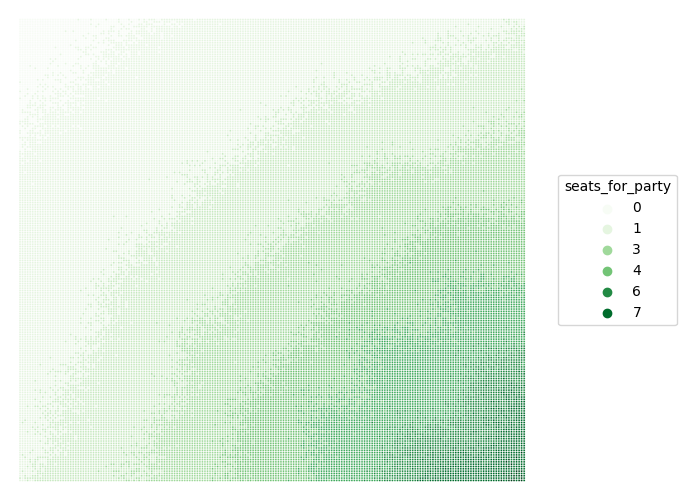
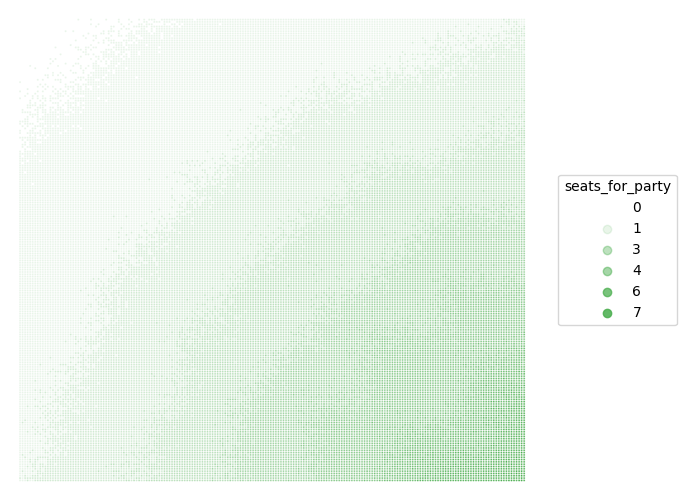
Allow specifying the discrete colormap in config

Changed region(s): [[0.21, 0.27, 0.75, 0.96], [0.84, 0.57, 0.87, 0.63], [0.84, 0.48, 0.87, 0.51]]

diff --git a/main.py b/main.py
@@ -2,11 +2,24 @@ import os
 from pathlib import Path
 import pandas as pd
 import matplotlib.pyplot as plt
+from matplotlib.colors import ListedColormap
 import seaborn as sns
 import dhall
 
 with open('config.dhall', 'r') as f:
     configs = dhall.load(f)
+
+def color_to_palette(config, party_to_colorize):
+    c = config['color']
+    if c == 'Average':
+        raise NotImplementedError
+    elif c == 'Continuous':
+        pc = party_to_colorize['color']
+        r, g, b = pc['r'] / 255, pc['g'] / 255, pc['b'] / 255
+        return ListedColormap([[r, g, b, a / 100] for a in range(0, 100)])
+    else:
+        # Discrete, return palette name to use
+        return c
 
 for config in configs:
     path = Path(config['out_dir'])
@@ -27,13 +40,15 @@ for config in configs:
             & (df.party_y == party_to_colorize['y'])
         ]
 
+        palette = color_to_palette(config, party_to_colorize)
+
         _, ax = plt.subplots(figsize=(7, 5))
         sns.scatterplot(
             data=df_for_party,
             x='x',
             y='y',
             hue='seats_for_party',
-            palette='Greens',
+            palette=palette,
             s=2
         )
         ax.axis('off')
@@ -42,3 +57,4 @@ for config in configs:
         plt.tight_layout()
         filename = Path(file).stem
         plt.savefig(f'examples/number-of-seats/{filename}.png')
+
